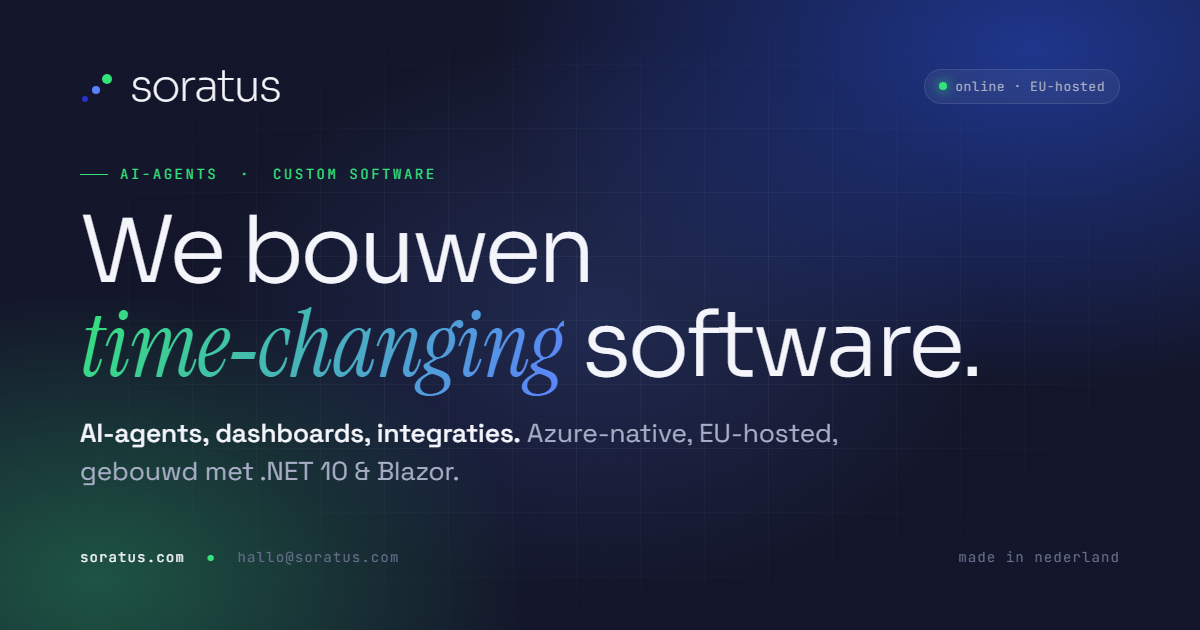
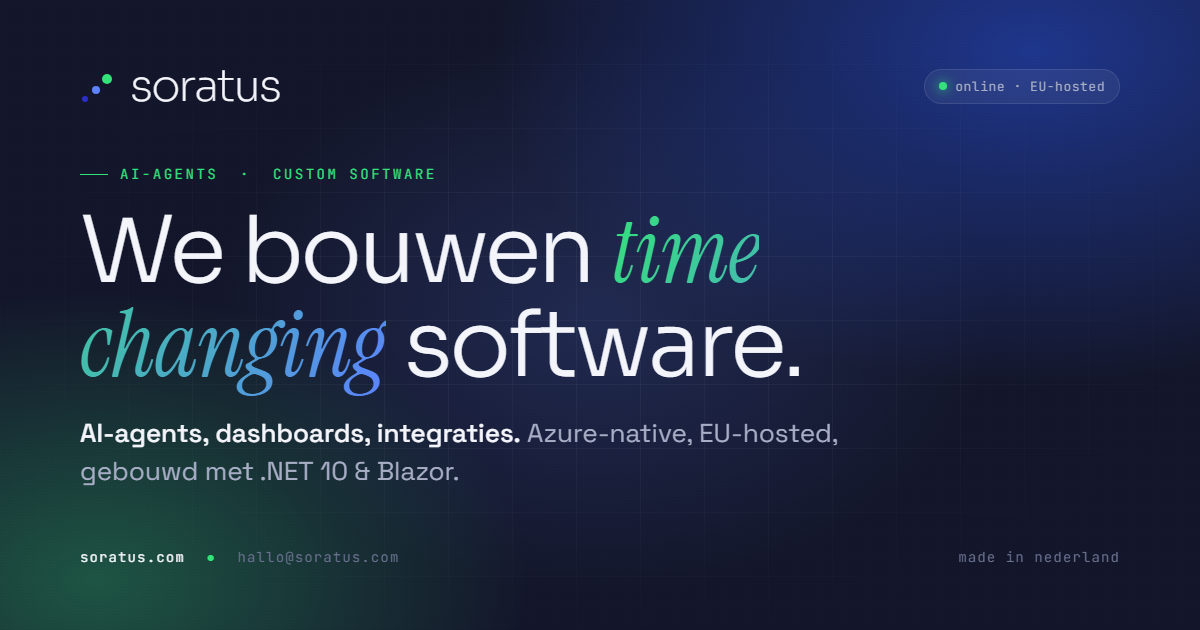
chore(brand): "Time-changing" → "Time changing" (no hyphen)
Match the lockup tagline ("time changing software" in the SVG logo
and Brand.Marquee config) across page titles, OG title, Twitter title,
and the OG image. Regenerated og-image.png from the updated template.

Changed region(s): [[0.0617, 0.4825, 0.8325, 0.6333], [0.4933, 0.3317, 0.6475, 0.4524]]

diff --git a/tools/og-image/og.html b/tools/og-image/og.html
@@ -134,7 +134,7 @@
 
     <div class="body">
       <div class="eyebrow">AI-agents &nbsp;·&nbsp; Custom software</div>
-      <div class="h1">We bouwen <em>time&#8209;changing</em> software.</div>
+      <div class="h1">We bouwen <em>time changing</em> software.</div>
       <div class="lede"><b>AI-agents, dashboards, integraties.</b> Azure-native, EU-hosted, gebouwd met .NET&nbsp;10 &amp; Blazor.</div>
     </div>
 